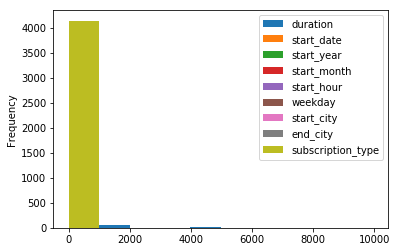
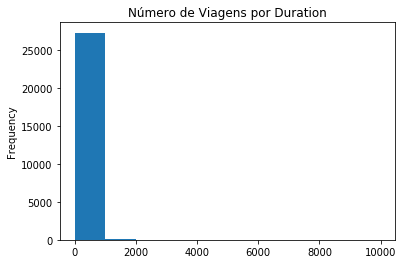
Revisão gráfico simples dados sem filtro

Changed region(s): [[0.0, 0.0278, 0.995, 0.9722], [0.6332, 0.1389, 0.9045, 0.3611]]

diff --git a/readme.md b/readme.md
@@ -665,13 +665,14 @@ Parece que existe 50% mais viagens feitas por assinantes (subscribers) no primei
 
 ```python
 # TODO: Faça um gráfico baseado nas durações
-trip_data.groupby('duration', as_index= False).count().plot.hist("Número de Viagens por Duration")
+
+trip_data['duration'].plot( kind="hist", title="Número de Viagens por Duration")
 ```
 
 
 
 
-    <matplotlib.axes._subplots.AxesSubplot at 0x21fdad38e80>
+    <matplotlib.axes._subplots.AxesSubplot at 0x21c23750710>
 
 
 
